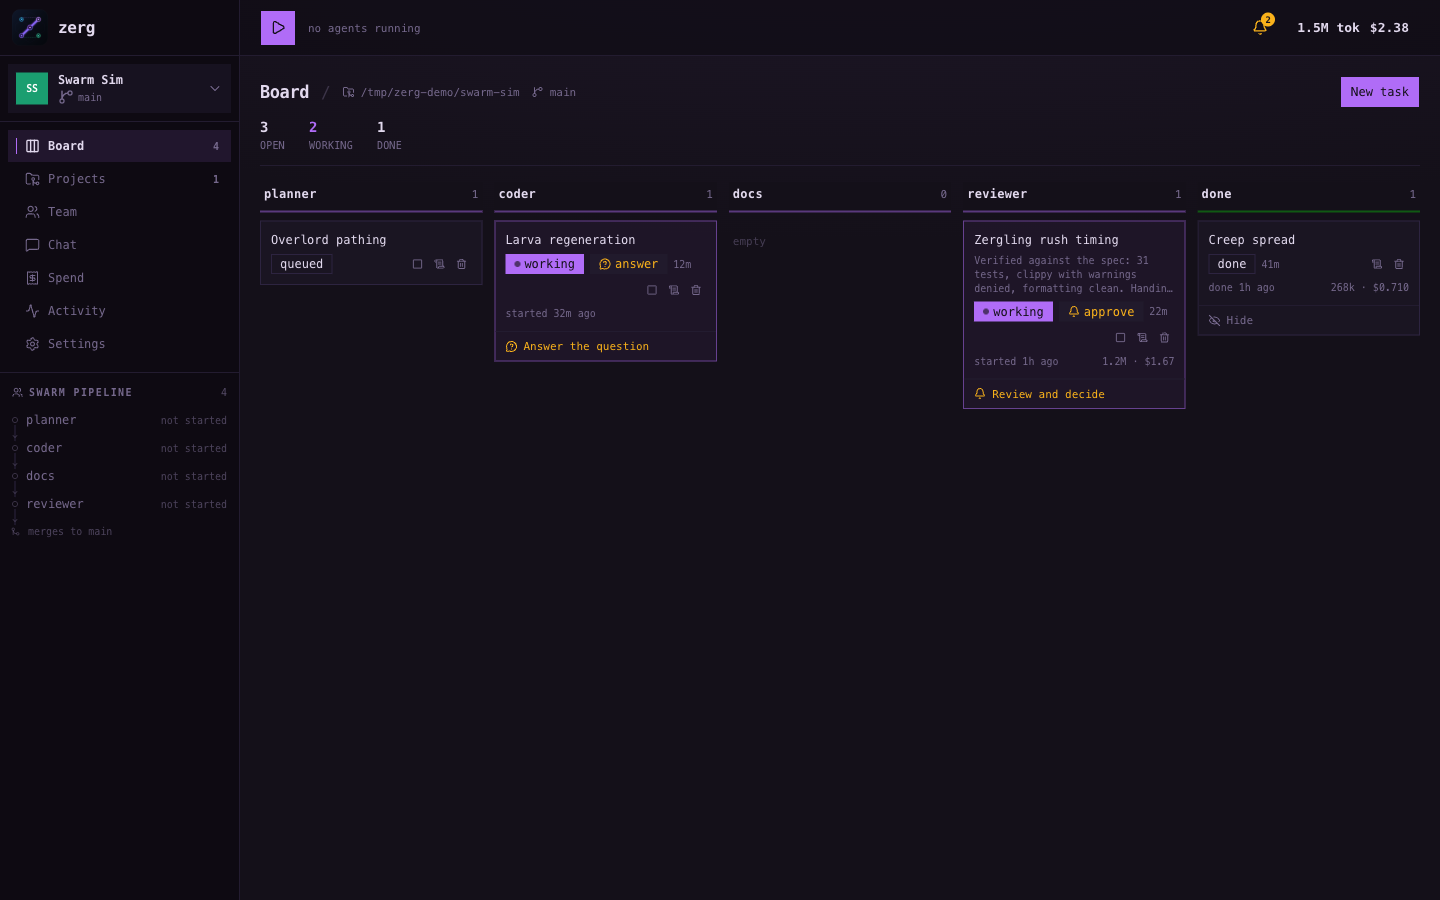
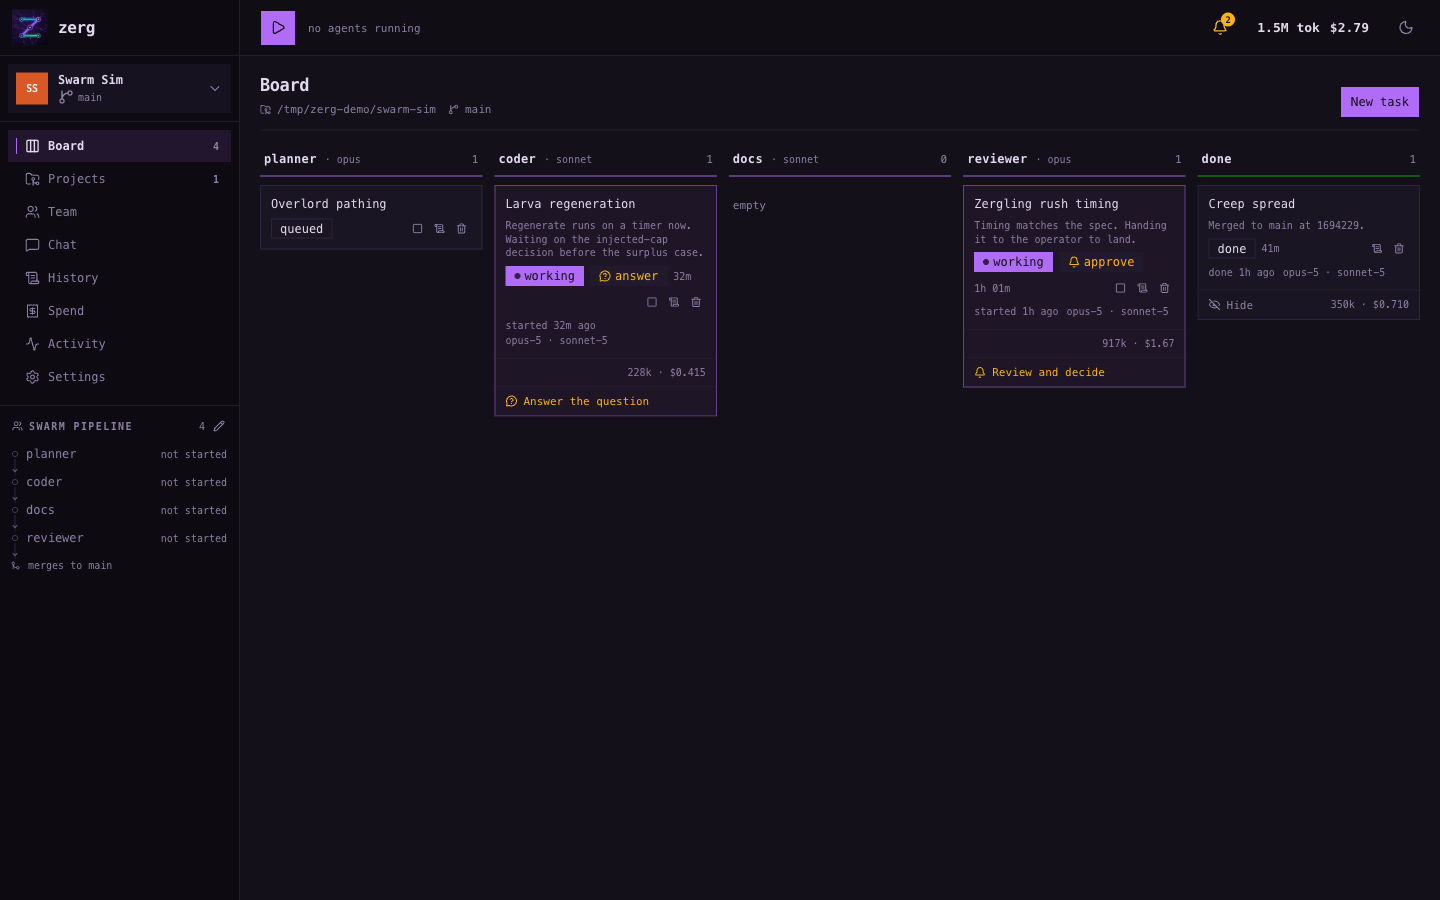
A board header that looks like the rest of the app (#30)
* Open the board the way every other screen opens.

The figures on the board were a strip of tiles: a value in semibold above an
uppercase label, four of them in a row. That arrangement fixed a real problem --
the same facts used to be scattered across a subtitle, a meta row and a corner
-- and introduced a worse one. It is a metrics widget, and nothing else in the
cockpit is one. History, Chat, Projects, Settings and Spend all open with a
title, a sentence saying what you are looking at, and a row of small muted
facts. The board was the single page that looked like it came from another
product, which is what people kept reporting.

The facts are unchanged. They are written the way this app writes figures
everywhere else -- number, then a lowercase word, middot between them, the way
a task's turns and tokens and cost are written -- and they sit in the meta row
PageHeader already provides. Working keeps the accent when it is not zero,
since it is the only one of these that means something is happening now.

Measured: at 1280 the header is one line of facts under the sentence in both
themes; at 390 the path drops, as it does in Chat's header for the same reason,
and the row wraps to two lines with nothing scrolling sideways.

* Stop the header counting what the lanes already count.

Open, working and done were three ways of counting cards that are on screen
directly underneath. Every lane header carries its own count, done is a lane,
[…]

diff --git a/web/src/components/BoardHeader.vue b/web/src/components/BoardHeader.vue
@@ -1,22 +1,33 @@
 <script setup lang="ts">
 /**
- * What is true about this board, in one line.
+ * What is true about this board, in the same shape as every other view.
  *
  * These facts arrived one at a time — the repository path, then the branch,
- * then spend, then a hidden count — and each was put wherever there was room.
- * The result read as leftovers rather than a summary: a subtitle, a meta row
- * and a button in the corner, none of them related to the others.
+ * then a hidden count, then what the checkouts cost — and each was put wherever
+ * there was room. The answer to that was a strip of figures with the value
+ * above an uppercase label, which fixed the disorder and introduced a worse
+ * problem: it is a metrics widget, and nothing else in the cockpit is one. Every
+ * other screen opens with a title and a row of small facts, so the board was
+ * the one page that looked like it came from another product.
  *
- * One strip of labelled figures instead. Every one answers a question you would
- * otherwise open something to ask: how much is queued, how much is put away,
- * what the checkouts cost.
+ * What is left is written the way this app writes figures everywhere else —
+ * number, then a lowercase word, separated by middots, the way a task's turns
+ * and tokens and cost are written — and it sits in the meta row that every
+ * other header already has.
  *
- * Spend is deliberately not among them any more. It is the one figure that
- * matters whatever you are looking at, so it moved to the bar that is on every
+ * What is left is also only what the board cannot say itself. Open, working and
+ * done were three ways of counting cards that are on screen underneath: the
+ * lane headers carry a count each, and done is a lane. A summary that restates
+ * the thing it sits above is furniture. Hidden cards are the opposite — they
+ * are the ones not on the board — and the checkouts are not on it at all.
+ *
+ * Spend is deliberately not among them either. It is the one figure that
+ * matters whatever you are looking at, so it lives in the bar that is on every
  * screen; here it was visible only while already reading the board.
  */
 import { computed } from 'vue'
-import { FolderGit2, GitBranch, HardDrive } from '@lucide/vue'
+import { EyeOff, FolderGit2, GitBranch, HardDrive } from '@lucide/vue'
+import PageHeader from '@/components/layout/PageHeader.vue'
 import type { Project, Task, Workspace } from '@/lib/api'
 
 const props = defineProps<{
@@ -25,13 +36,9 @@ const props = defineProps<{
   workspace: Workspace | null
 }>()
 
-const stats = computed(() => {
-  const total = props.tasks.length
-  const working = props.tasks.filter((t) => t.state === 'working').length
-  const hidden = props.tasks.filter((t) => t.hidden).length
-  const done = props.tasks.filter((t) => t.state === 'done').length
-  return { total, working, hidden, done, open: total - done }
-})
+/** Cards that are put away, which is the one count the board cannot show:
+ *  they are the cards it is not showing. */
+const hidden = computed(() => props.tasks.filter((t) => t.hidden).length)
 
 /** Bytes as something a person reads, not a number they convert. */
 function size(bytes: number): string {
@@ -42,65 +49,50 @@ function size(bytes: number): string {
 </script>
 
 <template>
-  <div class="flex flex-col gap-3">
-    <!-- Identity: which repository, on which branch. -->
-    <div class="flex flex-wrap items-center gap-x-3 gap-y-1">
-      <h1 class="text-[17px] leading-none font-semibold tracking-tight">Board</h1>
-      <span class="text-muted-foreground">/</span>
+  <!-- No subtitle, alone among the views. Theirs say what you are looking at
+       because a list of history rows or a page of settings does not announce
+       itself; a board of labelled columns with cards in them does. On the
+       screen people keep open all day it was two lines of instruction read
+       once, and on a phone it pushed the first card further down. -->
+  <PageHeader title="Board">
+    <template #meta>
+      <!-- Which repository, and which branch the work lands on. The path is
+           desktop-only: it is the longest thing in the row and answers a
+           question you ask once, which is the same call Chat's header makes. -->
       <span
-        class="text-muted-foreground inline-flex min-w-0 items-center gap-1.5 text-[11px]"
+        class="text-muted-foreground hidden min-w-0 items-center gap-1.5 font-mono text-[11px] sm:flex"
         :title="project.path"
       >
-        <FolderGit2 :size="12" class="shrink-0" aria-hidden="true" />
-        <span class="truncate font-mono">{{ project.path }}</span>
+        <FolderGit2 :size="11" class="shrink-0" aria-hidden="true" />
+        <span class="truncate">{{ project.path }}</span>
       </span>
-      <span class="text-muted-foreground inline-flex items-center gap-1.5 text-[11px]">
-        <GitBranch :size="12" aria-hidden="true" />
+      <span class="text-muted-foreground flex items-center gap-1.5 font-mono text-[11px]">
+        <GitBranch :size="11" class="shrink-0" aria-hidden="true" />
         {{ project.baseBranch }}
       </span>
-      <div class="ml-auto flex items-center gap-2"><slot name="actions" /></div>
-    </div>
 
-    <!-- The figures. Value above label, so the numbers line up and the row
-         scans as a row rather than as sentences of different lengths. -->
-    <dl class="hairline-b flex flex-wrap items-end gap-x-6 gap-y-2 pb-3">
-      <div>
-        <dd class="tabular text-sm leading-none font-semibold">{{ stats.open }}</dd>
-        <dt class="text-muted-foreground mt-1 text-[10px] tracking-wide uppercase">open</dt>
-      </div>
-      <div>
-        <dd
-          class="tabular text-sm leading-none font-semibold"
-          :class="stats.working ? 'text-[var(--primary)]' : 'text-muted-foreground'"
-        >
-          {{ stats.working }}
-        </dd>
-        <dt class="text-muted-foreground mt-1 text-[10px] tracking-wide uppercase">working</dt>
-      </div>
-      <div>
-        <dd class="tabular text-sm leading-none font-semibold">{{ stats.done }}</dd>
-        <dt class="text-muted-foreground mt-1 text-[10px] tracking-wide uppercase">done</dt>
-      </div>
-      <!-- Only when there are any: a zero here is a control that does nothing
-           dressed as information. -->
-      <div v-if="stats.hidden">
-        <dd class="tabular text-muted-foreground text-sm leading-none font-semibold">
-          {{ stats.hidden }}
-        </dd>
-        <dt class="text-muted-foreground mt-1 text-[10px] tracking-wide uppercase">hidden</dt>
-      </div>
+      <!-- Only when there are any: a zero here describes a control that is not
+           on screen either, since the toggle that reveals them is hidden too. -->
+      <span
+        v-if="hidden"
+        class="text-muted-foreground tabular flex items-center gap-1.5 text-[11px]"
+      >
+        <EyeOff :size="11" class="shrink-0" aria-hidden="true" />
+        {{ hidden }} hidden
+      </span>
 
-      <div v-if="workspace?.worktrees?.length" class="border-l pl-6">
-        <dd
-          class="tabular flex items-baseline gap-1.5 text-sm leading-none font-semibold"
-          :title="workspace.worktrees.map((w) => `${w.role}: ${size(w.bytes)}`).join('\n')"
-        >
-          {{ workspace.worktrees.length }}
-          <HardDrive :size="12" class="text-muted-foreground self-center" aria-hidden="true" />
-          <span class="text-muted-foreground text-xs font-normal">{{ size(workspace.bytes) }}</span>
-        </dd>
-        <dt class="text-muted-foreground mt-1 text-[10px] tracking-wide uppercase">worktrees</dt>
-      </div>
-    </dl>
-  </div>
+      <span
+        v-if="workspace?.worktrees?.length"
+        class="text-muted-foreground tabular flex items-center gap-1.5 text-[11px]"
+        :title="workspace.worktrees.map((w) => `${w.role}: ${size(w.bytes)}`).join('\n')"
+      >
+        <HardDrive :size="11" class="shrink-0" aria-hidden="true" />
+        {{ workspace.worktrees.length }} worktrees
+        <span aria-hidden="true">·</span>
+        {{ size(workspace.bytes) }}
+      </span>
+    </template>
+
+    <template #actions><slot name="actions" /></template>
+  </PageHeader>
 </template>

diff --git a/web/src/components/Board.vue b/web/src/components/Board.vue
@@ -98,6 +98,24 @@ function shortModel(model: string): string {
 }
 
 /**
+ * The model a role is configured with, for its column heading.
+ *
+ * A different question from the models on a card, which say what actually did
+ * that work and are recorded with it. This one is live: change the team and
+ * every heading changes, because it describes what the next card through this
+ * lane will be worked by.
+ *
+ * The last path segment, since a harness that namespaces its models
+ * ("openai-codex/gpt-5.6-sol") puts the interesting half at the end and a
+ * column is 192 pixels wide. The full value is in the title.
+ */
+function laneModel(lane: string): string {
+  const role = props.team.find((r) => r.enabled && r.name === lane)
+  if (!role?.model) return ''
+  return shortModel(role.model.split('/').pop() ?? role.model)
+}
+
+/**
  * How long the role working this card has been silent, in words.
  *
  * A card that says "working" says the same thing whether the agent is running
@@ -187,8 +205,20 @@ const byLane = computed(() => {
             lane === 'done' ? 'border-[var(--status-good)]/50' : 'border-primary/45',
           ]"
         >
-          <span class="text-xs font-semibold tracking-wide">{{ lane }}</span>
-          <span class="tabular text-muted-foreground ml-auto text-[11px]">
+          <span class="shrink-0 text-xs font-semibold tracking-wide">{{ lane }}</span>
+          <!-- What will work the next card through here. It was a trip to the
+               team editor to answer, which is a screen away from the board it
+               is about. Allowed to truncate rather than to push the count off
+               the end: the count is the fact you scan for, and the full model
+               is in the title. -->
+          <span
+            v-if="laneModel(lane)"
+            class="text-muted-foreground min-w-0 truncate text-[10px]"
+            :title="`${lane} runs ${team.find((r) => r.name === lane)?.model}`"
+          >
+            · {{ laneModel(lane) }}
+          </span>
+          <span class="tabular text-muted-foreground ml-auto shrink-0 pl-1 text-[11px]">
             {{ byLane.get(lane)?.length ?? 0 }}
           </span>
         </div>

diff --git a/README.md b/README.md
@@ -55,7 +55,8 @@ what it has spent, and what needs a decision.
 These screenshots use a demo project named `swarm-sim`. Its pipeline has a gated planner, coder,
 docs role, and gated reviewer.
 
-**Board.** Each role has a lane, and each card shows its state, age, and cost.
+**Board.** Each role has a lane, headed by the model that works it, and each card shows its state,
+age, and cost.
 
 ![The board, with cards in four lanes](docs/screenshots/01-board.png)
 
@@ -88,6 +89,10 @@ reusable defaults for harnesses, models, prompts, and gates.
 ![The team editor](docs/screenshots/04-team.png)
 
 ![The role library in Settings](docs/screenshots/07-settings.png)
+
+**Light and dark.** The cockpit follows the system setting, and the toggle in the bar overrides it.
+
+![The board in the light theme](docs/screenshots/10-light-board.png)
 
 **Phone.** Navigation becomes a drawer, lanes stack, and dialogs fill the screen.
 
